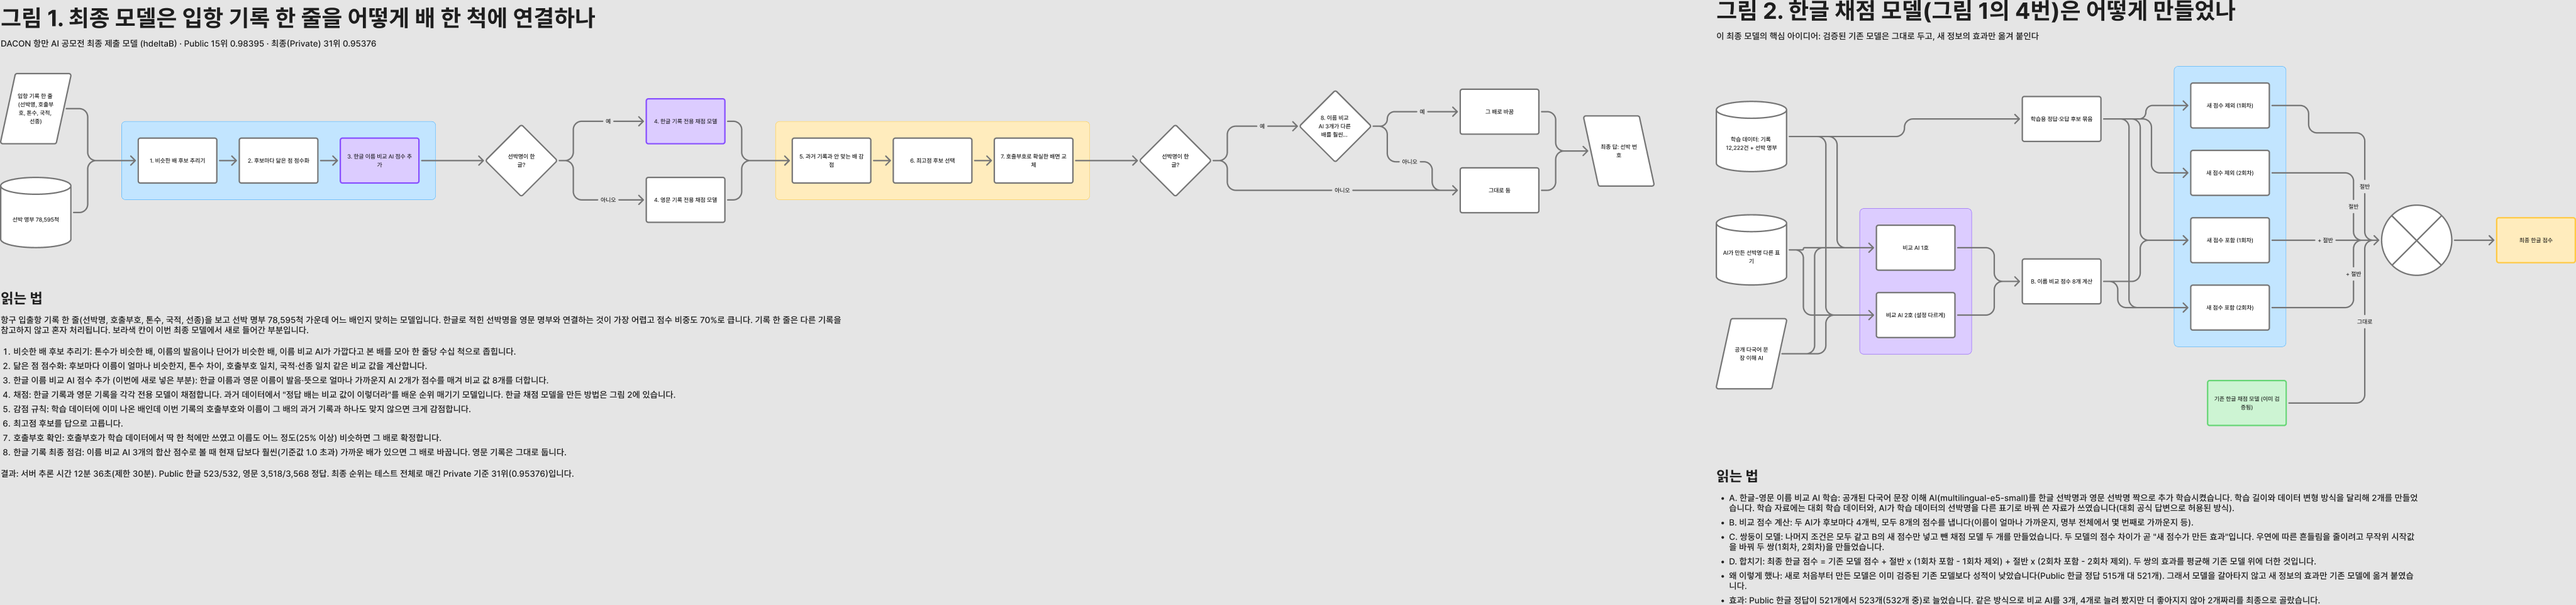
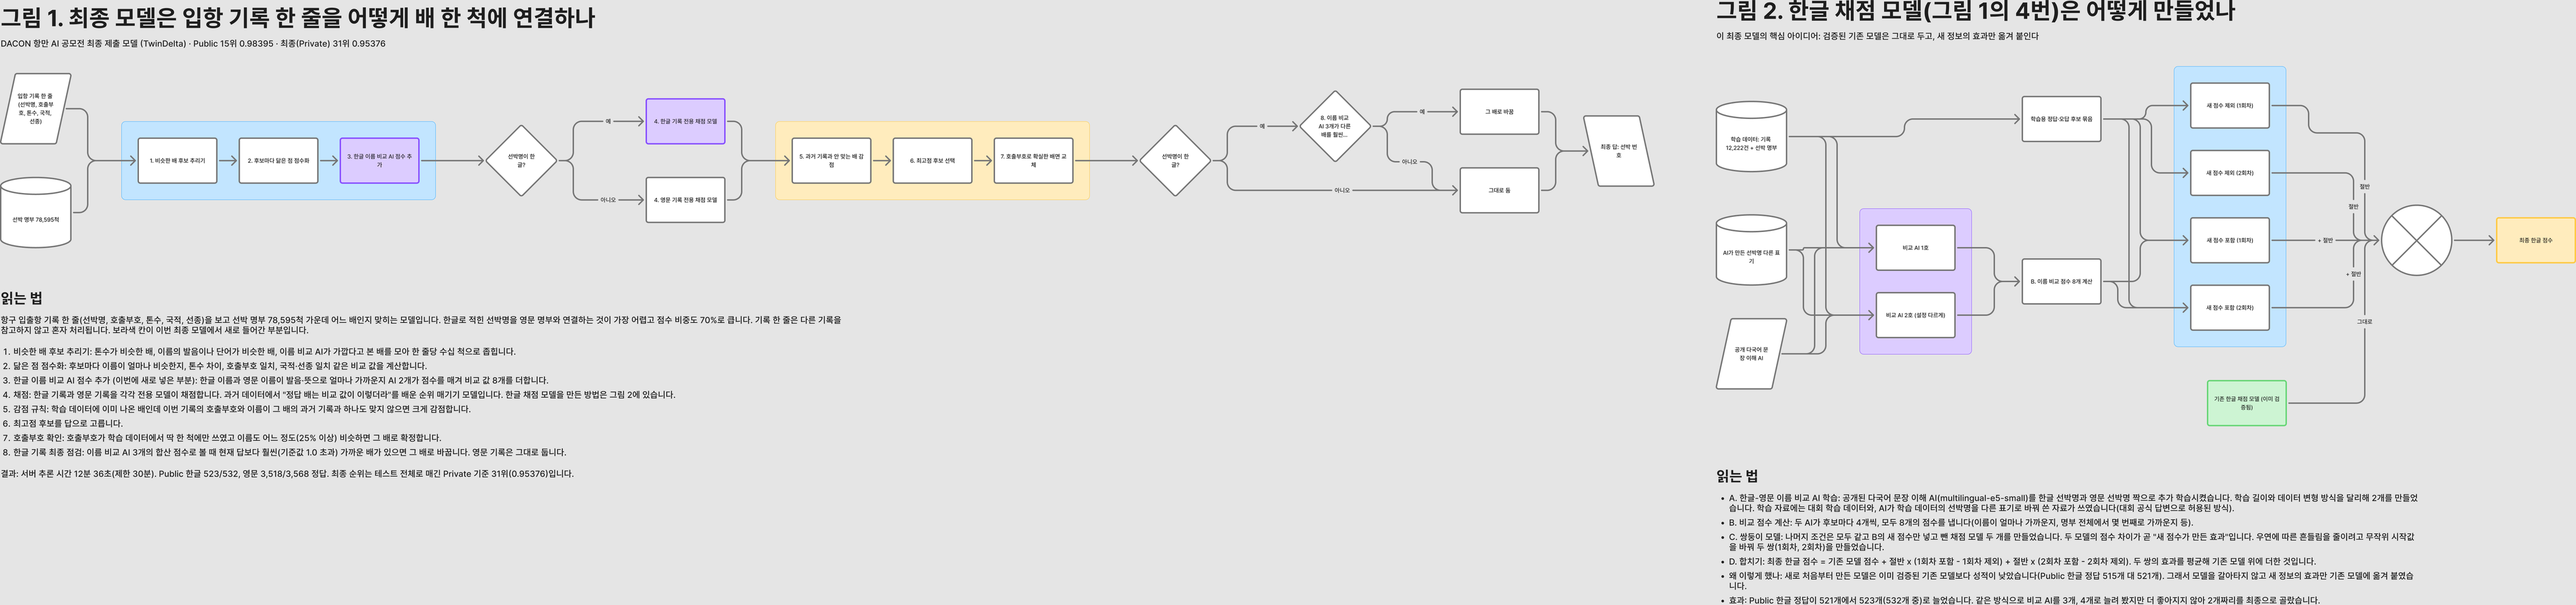
모델 이름을 hdeltaB에서 TwinDelta로 변경
문서, 빌드 스크립트(build_twindelta.sh), FigJam 도식 부제를 바꿨다.
실제 제출 파일명과 원본 작업 저장소 경로는 그대로 둔다.

diff --git a/packaging/pack_bag.py b/packaging/pack_bag.py
@@ -28,7 +28,7 @@ CRLF, LF = b"\r\n", "\n"
 
 
 def patch_pipeline(data: bytes, e5: bool, de4: bool, cp: bool) -> bytes:
-    """Insert only the enabled feature hooks (the final hdeltaB ZIP has the e5 hook alone)."""
+    """Insert only the enabled feature hooks (the final TwinDelta ZIP has the e5 hook alone)."""
     crlf = CRLF in data
     s = data.decode("utf-8").replace("\r\n", LF)
     assert s.count(HOOK) == 1, "ranker.predict hook not found exactly once"

diff --git a/results/rebuild_check.md b/results/rebuild_check.md
@@ -1,6 +1,6 @@
-# hdeltaB 재빌드 검증 (2026-11-02)
+# TwinDelta 재빌드 검증 (2026-11-02)
 
-원본 작업 저장소에서 실행한 명령: `bash final/hdeltaB/build_hdeltaB.sh C:/tmp_rebuild/hdeltaB_rebuild2.zip` (이 저장소의 `packaging/build_hdeltaB.sh`와 같은 내용) (입력은 [MANIFEST.json](MANIFEST.json)의 `build_inputs`와 같다)
+원본 작업 저장소에서 실행한 명령: `bash final/hdeltaB/build_hdeltaB.sh C:/tmp_rebuild/hdeltaB_rebuild2.zip` (이 저장소의 `packaging/build_twindelta.sh`와 같은 명령. 원본 작업 저장소에서는 모델을 hdeltaB라는 작업 이름으로 불렀다) (입력은 [MANIFEST.json](MANIFEST.json)의 `build_inputs`와 같다)
 
 | 검사 | 결과 |
 |---|---|
@@ -25,7 +25,7 @@
 
 ## 이번 정리에서 고친 것
 
-`pack_bag.py`(이 저장소의 `packaging/pack_bag.py`)를 고쳤다. 처음 재빌드한 ZIP은 `model/src/rank/pipeline.py`가 원본과 달랐다. `pack_bag.py`가 hdeltaB에서 쓰지 않는 훅 코드까지 넣었기 때문이다(실행되지는 않지만 바이트가 달라진다). 켜진 옵션의 훅만 넣도록 바꾼 뒤, 재빌드의 `pipeline.py`는 원본과 바이트까지 같다.
+`pack_bag.py`(이 저장소의 `packaging/pack_bag.py`)를 고쳤다. 처음 재빌드한 ZIP은 `model/src/rank/pipeline.py`가 원본과 달랐다. `pack_bag.py`가 TwinDelta에서 쓰지 않는 훅 코드까지 넣었기 때문이다(실행되지는 않지만 바이트가 달라진다). 켜진 옵션의 훅만 넣도록 바꾼 뒤, 재빌드의 `pipeline.py`는 원본과 바이트까지 같다.
 
 ## 스모크 원본 출력
 

diff --git a/packaging/README.md b/packaging/README.md
@@ -4,7 +4,7 @@
 
 | 파일 | 내용 |
 |---|---|
-| `build_hdeltaB.sh` | 최종 제출 ZIP을 만드는 명령. 원본 작업 저장소 경로(`ARCHIVE`)를 받아 그곳의 모델 파일로 실행한다 |
+| `build_twindelta.sh` | 최종 제출 ZIP을 만드는 명령. 원본 작업 저장소 경로(`ARCHIVE`)를 받아 그곳의 모델 파일로 실행한다 |
 | `pack_bag.py` | 기반 패키지의 한글 채점 모델을 `WeightedRanker`로 바꾸고, e5 점수 계산 훅과 인코더 파일을 넣어 새 ZIP을 쓴다 |
 | `bagrank.py` | `WeightedRanker`: 여러 채점 모델 점수의 가중합. ZIP 안에 `rank/bagrank.py`로 들어간다 |
 | `e5feat.py` | 추론 때 이름 비교 AI 점수 4개를 계산한다. ZIP 안에 `rank/e5feat.py`로 들어간다 |

diff --git a/README.md b/README.md
@@ -1,6 +1,6 @@
 # 항만 문제해결을 위한 AI 기술 공모전: 최종 제출 모델
 
-DACON [항만 문제해결을 위한 AI 기술 공모전](https://dacon.io/competitions/official/236771/overview/description) (2026-10-12 ~ 2026-11-02)에 팀 **12월부산여행**으로 참가해 최종 선택한 제출(`hdeltaB_e5_e08_noLLM.zip`)의 코드와 문서, 결과 기록이다.
+DACON [항만 문제해결을 위한 AI 기술 공모전](https://dacon.io/competitions/official/236771/overview/description) (2026-10-12 ~ 2026-11-02)에 팀 **12월부산여행**으로 참가해 최종 선택한 모델 **TwinDelta**의 코드와 문서, 결과 기록이다(DACON 제출 파일 `hdeltaB_e5_e08_noLLM.zip`).
 
 ## 최종 결과
 

diff --git a/results/README.md b/results/README.md
@@ -1,7 +1,7 @@
-# hdeltaB 최종 결과
+# TwinDelta 최종 결과
 
 대회: DACON 236771 항만 문제해결을 위한 AI 기술 공모전 (선박 입출항 기록 → 선박 카탈로그 매칭)
-팀: 12월부산여행 · 최종 선택 제출: `hdeltaB_e5_e08_noLLM.zip` (DACON 제출 ID 122968, 2026-11-01 01:51:45 KST)
+팀: 12월부산여행 · 최종 선택 모델: TwinDelta (제출 파일 `hdeltaB_e5_e08_noLLM.zip`) (DACON 제출 ID 122968, 2026-11-01 01:51:45 KST)
 확인: 2026-11-02, DACON 리더보드(Public/Private 탭)
 
 ## 점수와 순위

diff --git a/docs/REPRODUCE.md b/docs/REPRODUCE.md
@@ -55,7 +55,7 @@ ZIP에서 학습된 모델 파일을 꺼내 `submission/model/` 아래에 두면
 이 저장소에서 원본 작업 저장소 경로를 지정해 실행한다.
 
 ```bash
-ARCHIVE=/path/to/DACON.Ship bash packaging/build_hdeltaB.sh /path/to/hdeltaB_rebuild.zip
+ARCHIVE=/path/to/DACON.Ship bash packaging/build_twindelta.sh /path/to/twindelta_rebuild.zip
 ```
 
 내부적으로 [`packaging/pack_bag.py`](../packaging/pack_bag.py)가 다음 일을 한다.

diff --git a/submission/README.md b/submission/README.md
@@ -1,6 +1,6 @@
 # 제출 코드
 
-최종 제출 ZIP `hdeltaB_e5_e08_noLLM.zip`에 들어 있던 추론 코드다. DACON 서버는 ZIP을 풀고 `script.py`를 실행한다.
+최종 모델 TwinDelta의 제출 ZIP `hdeltaB_e5_e08_noLLM.zip`에 들어 있던 추론 코드다. DACON 서버는 ZIP을 풀고 `script.py`를 실행한다.
 
 | 경로 | 내용 |
 |---|---|
